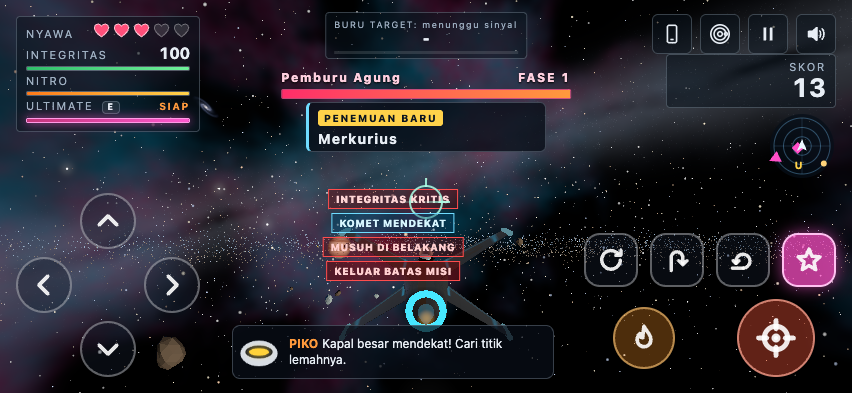
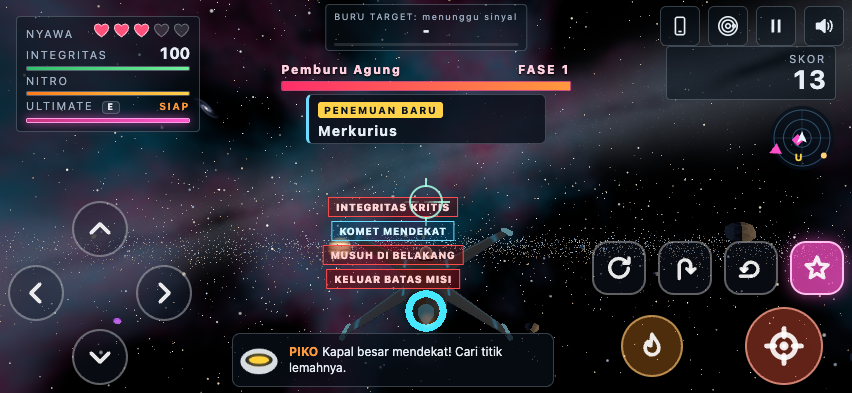
feat: H1 satuan --u dari tinggi tampak, jarak tepi max(safe area, 8px) di mode HP, override ?safearea
- Var CSS --sa-*, --ed-*, --vh1, --app-h, --u, --cu, --cs, --ca
- Semua posisi calc(Npx + env(safe-area)) diganti var --ed-* (desktop tetap 16 px)
- Modul Viewport: visualViewport, ?safearea=kiri,atas,kanan,bawah, hook debug.viewport

diff --git a/index.html b/index.html
@@ -83,6 +83,26 @@
 }
 </script>
 <style>
+  /* Jarak tepi dan satuan ukuran (H1). --sa-* adalah safe area minimal 8 px (bisa ditimpa lewat
+     ?safearea=kiri,atas,kanan,bawah); --ed-* adalah jarak tepi yang dipakai semua elemen: 16 px di
+     desktop, --sa-* di mode HP. --u adalah satuan dasar kontrol sentuh yang ikut tinggi layar tampak. */
+  :root {
+    --sa-l: max(env(safe-area-inset-left), 8px);
+    --sa-t: max(env(safe-area-inset-top), 8px);
+    --sa-r: max(env(safe-area-inset-right), 8px);
+    --sa-b: max(env(safe-area-inset-bottom), 8px);
+    --ed-l: max(env(safe-area-inset-left), 16px);
+    --ed-t: max(env(safe-area-inset-top), 16px);
+    --ed-r: max(env(safe-area-inset-right), 16px);
+    --ed-b: max(env(safe-area-inset-bottom), 16px);
+    --vh1: 1vh;
+    --app-h: 100vh;
+    --cs: 1;
+    --ca: 1;
+  }
+  @supports (height: 1dvh) { :root { --vh1: 1dvh; --app-h: 100dvh; } }
+  :root { --u: clamp(34px, calc(11 * var(--vh1)), 48px); --cu: calc(var(--u) * var(--cs)); }
+  body.mode-hp { --ed-l: var(--sa-l); --ed-t: var(--sa-t); --ed-r: var(--sa-r); --ed-b: var(--sa-b); }
   :root {
     --ui-fg: #e8eef5;
     --ui-dim: #9fb0c2;
@@ -273,7 +293,7 @@
   .note { margin: 6px 0 0; font-size: 12px; color: #ffd28a; }
   .link { font: inherit; color: var(--ui-accent); background: none; border: 0; text-decoration: underline; cursor: pointer; padding: 0; }
   .btn.danger { color: #ffb0a0; border-color: rgba(255, 120, 100, 0.5); }
-  #buffs { position: absolute; left: 16px; top: calc(146px + env(safe-area-inset-top)); display: flex; flex-direction: column; gap: 6px; }
+  #buffs { position: absolute; left: 16px; top: calc(130px + var(--ed-t)); display: flex; flex-direction: column; gap: 6px; }
   .buff { display: flex; align-items: center; gap: 8px; padding: 4px 10px; font-size: 11px; font-weight: 800; letter-spacing: 0.12em;
     background: var(--ui-panel); border: 1px solid var(--ui-line); border-radius: 4px; }
   .buff svg { width: 16px; height: 16px; fill: currentColor; }
@@ -281,7 +301,7 @@
   .buff[data-buff="overdrive"] { color: #ffc84a; border-color: rgba(255, 190, 60, 0.6); }
   .buff[data-buff="destroyer"] { color: #d58bff; border-color: rgba(200, 100, 255, 0.6); }
   #piko-panel {
-    position: absolute; left: 16px; bottom: calc(184px + env(safe-area-inset-bottom)); display: flex; align-items: center; gap: 10px;
+    position: absolute; left: 16px; bottom: calc(168px + var(--ed-b)); display: flex; align-items: center; gap: 10px;
     max-width: min(380px, 42vw); padding: 6px 12px 6px 6px; background: rgba(8, 14, 24, 0.72); border: 1px solid var(--ui-line); border-radius: 8px;
   }
   #piko-face { width: 40px; height: 40px; flex: none; }
@@ -289,12 +309,12 @@
   #piko-text b { color: var(--ui-accent); margin-right: 4px; }
   .ind.pickup { border-left-color: #5dff7a; }
   #lead { position: absolute; left: 0; top: 0; width: 14px; height: 14px; margin: -7px 0 0 -7px; border: 2px solid #ffd24a; transform-origin: center; }
-  #rear-warn { position: absolute; left: 50%; bottom: calc(56px + env(safe-area-inset-bottom)); transform: translateX(-50%);
+  #rear-warn { position: absolute; left: 50%; bottom: calc(40px + var(--ed-b)); transform: translateX(-50%);
     padding: 3px 12px; font-size: 12px; font-weight: 800; letter-spacing: 0.24em; color: #ffd0d0; border: 1px solid var(--ui-bad); background: rgba(120, 0, 0, 0.35); animation: blink 0.6s steps(2) infinite; }
-  #comet-warn { position: absolute; left: 50%; top: calc(110px + env(safe-area-inset-top)); transform: translateX(-50%);
+  #comet-warn { position: absolute; left: 50%; top: calc(94px + var(--ed-t)); transform: translateX(-50%);
     padding: 3px 12px; font-size: 12px; font-weight: 800; letter-spacing: 0.24em; color: #d8f6ff; border: 1px solid #6fdcff; background: rgba(0, 70, 110, 0.4); animation: blink 0.5s steps(2) infinite; }
   #data-panel {
-    position: absolute; right: 16px; bottom: calc(84px + env(safe-area-inset-bottom)); width: min(290px, 40vw); padding: 10px 14px;
+    position: absolute; right: 16px; bottom: calc(68px + var(--ed-b)); width: min(290px, 40vw); padding: 10px 14px;
     background: rgba(8, 14, 24, 0.8); border: 1px solid var(--ui-line); border-left: 3px solid #6fdcff; border-radius: 6px;
   }
   #data-panel h3 { margin: 0; font-size: 18px; letter-spacing: 0.08em; }
@@ -303,13 +323,13 @@
   #data-facts li + li { margin-top: 3px; }
   #data-tag { display: inline-block; margin-bottom: 4px; padding: 2px 6px; font-size: 10px; font-weight: 800; letter-spacing: 0.16em; color: #0a1420; background: #ffd24a; border-radius: 3px; }
   #data-tag.hidden { display: none; }
-  #boss-bar { position: absolute; left: 50%; top: calc(152px + env(safe-area-inset-top)); transform: translateX(-50%); width: min(560px, 70vw); }
+  #boss-bar { position: absolute; left: 50%; top: calc(136px + var(--ed-t)); transform: translateX(-50%); width: min(560px, 70vw); }
   .bb-head { display: flex; justify-content: space-between; gap: 12px; margin-bottom: 4px; font-size: 12px; font-weight: 800; letter-spacing: 0.14em; color: #ffd0e0; text-shadow: 0 1px 2px #000; }
   .bb-track { height: 10px; background: rgba(255, 255, 255, 0.12); border: 1px solid rgba(255, 80, 140, 0.7); border-radius: 2px; overflow: hidden; }
   #boss-fill { display: block; height: 100%; background: linear-gradient(90deg, #ff2d6a, #ff9a3c); transform-origin: left center; }
   #screen-levelup .card, #screen-contract .card { max-width: 760px; }
   .mission { color: #9fe8ff; margin-top: 2px; }
-  #radar { position: absolute; right: 16px; top: calc(170px + env(safe-area-inset-top)); width: 150px; height: 150px; }
+  #radar { position: absolute; right: 16px; top: calc(154px + var(--ed-t)); width: 150px; height: 150px; }
   .instr { display: flex; align-items: center; gap: 10px; margin-bottom: 6px; padding-bottom: 6px; border-bottom: 1px solid var(--ui-line); }
   #attitude { width: 56px; height: 56px; flex: none; }
   .instr-txt { display: grid; gap: 2px; min-width: 120px; }
@@ -372,7 +392,7 @@
   .acard .acls { margin: 2px 0 6px; font-size: 11px; color: var(--ui-dim); text-transform: uppercase; letter-spacing: 0.1em; }
   .acard ul { margin: 0; padding-left: 16px; font-size: 12px; line-height: 1.4; }
   .acard.locked { opacity: 0.45; }
-  #maneuvers { position: absolute; left: 50%; bottom: calc(14px + env(safe-area-inset-bottom)); transform: translateX(-50%); display: flex; gap: 8px; }
+  #maneuvers { position: absolute; left: 50%; bottom: calc(-2px + var(--ed-b)); transform: translateX(-50%); display: flex; gap: 8px; }
   .man {
     position: relative; overflow: hidden; display: flex; align-items: center; gap: 6px; padding: 5px 10px;
     background: var(--ui-panel); border: 1px solid var(--ui-line); border-radius: 4px; font-size: 11px; letter-spacing: 0.1em;
@@ -405,11 +425,11 @@
   #touch .tbtn svg { width: 30px; height: 30px; fill: none; stroke: currentColor; stroke-width: 3; stroke-linecap: round; stroke-linejoin: round; }
   #touch .tbtn.on { background: rgba(255, 154, 60, 0.55); border-color: #ffd08a; transform: scale(0.94); }
   /* Tata letak grid: tombol tidak bisa bertumpuk, jarak 12 px, area sentuh minimal 56 px */
-  .dpad { position: absolute; left: calc(16px + env(safe-area-inset-left)); bottom: calc(16px + env(safe-area-inset-bottom));
+  .dpad { position: absolute; left: var(--ed-l); bottom: var(--ed-b);
     display: grid; grid-template-columns: repeat(3, 60px); grid-template-rows: repeat(3, 60px); gap: 8px; }
   #touch .dpad .tbtn, #touch .actions .tbtn { position: relative; inset: auto; width: 100%; height: 100%; }
   .t-up { grid-area: 1 / 2; } .t-left { grid-area: 2 / 1; } .t-right { grid-area: 2 / 3; } .t-down { grid-area: 3 / 2; }
-  .actions { position: absolute; right: calc(16px + env(safe-area-inset-right)); bottom: calc(16px + env(safe-area-inset-bottom));
+  .actions { position: absolute; right: var(--ed-r); bottom: var(--ed-b);
     display: grid; grid-template-columns: repeat(4, 56px); grid-template-rows: 56px 84px; gap: 12px; align-items: center; justify-items: center; }
   .t-roll { grid-area: 1 / 1; } .t-imm { grid-area: 1 / 2; } .t-loop { grid-area: 1 / 3; } .t-ult { grid-area: 1 / 4; }
   #touch .actions .t-nitro { grid-area: 2 / 1 / 3 / 3; width: 68px; height: 68px; }
@@ -430,35 +450,35 @@
   body.mode-hp .hud-block.tl .lv-row, body.mode-hp #xp-bar { display: none; }
   body.mode-hp .hud-block.tl .row { margin-top: 1px; }
   body.mode-hp .hud-block.tl .bar { height: 5px; margin: 2px 0 3px; }
-  body.mode-hp .hud-block.tc { max-width: min(240px, 30vw); padding: 4px 8px; top: calc(12px + env(safe-area-inset-top)) !important; }
+  body.mode-hp .hud-block.tc { max-width: min(240px, 30vw); padding: 4px 8px; top: calc(-4px + var(--ed-t)) !important; }
   body.mode-hp .hud-block.tc > .label:not(.mission) { display: none; }
   body.mode-hp .hud-block.tc .big { font-size: 15px; }
   body.mode-hp .mission { white-space: nowrap; overflow: hidden; text-overflow: ellipsis; font-size: 9px; }
-  body.mode-hp .hud-block.tr { top: calc(54px + env(safe-area-inset-top)) !important; }
+  body.mode-hp .hud-block.tr { top: calc(38px + var(--ed-t)) !important; }
   body.mode-hp .hud-block.tr .label:not(:first-child) { display: none; }
-  body.mode-hp #radar { width: 72px; height: 72px; top: calc(118px + env(safe-area-inset-top)); }
-  body.mode-hp #boss-bar { top: calc(70px + env(safe-area-inset-top)); width: min(320px, 34vw); }
-  body.mode-hp #data-panel { right: auto; left: 50%; transform: translateX(-50%); top: calc(102px + env(safe-area-inset-top)); bottom: auto; width: min(240px, 30vw); padding: 4px 9px; }
+  body.mode-hp #radar { width: 72px; height: 72px; top: calc(102px + var(--ed-t)); }
+  body.mode-hp #boss-bar { top: calc(54px + var(--ed-t)); width: min(320px, 34vw); }
+  body.mode-hp #data-panel { right: auto; left: 50%; transform: translateX(-50%); top: calc(86px + var(--ed-t)); bottom: auto; width: min(240px, 30vw); padding: 4px 9px; }
   body.mode-hp #data-panel h3 { font-size: 14px; }
   body.mode-hp #data-facts, body.mode-hp #data-panel .dcls { display: none; }
-  body.mode-hp #piko-panel { left: calc(50% - 33px); transform: translateX(-50%); top: auto; bottom: calc(14px + env(safe-area-inset-bottom)); width: max-content; max-width: max(150px, calc(100vw - 530px)); }
+  body.mode-hp #piko-panel { left: calc(50% - 33px); transform: translateX(-50%); top: auto; bottom: calc(-2px + var(--ed-b)); width: max-content; max-width: max(150px, calc(100vw - 530px)); }
   body.mode-hp #piko-text { font-size: 12px; }
-  body.mode-hp #buffs { top: auto !important; left: 50%; transform: translateX(-50%); bottom: calc(96px + env(safe-area-inset-bottom)); flex-direction: row; }
+  body.mode-hp #buffs { top: auto !important; left: 50%; transform: translateX(-50%); bottom: calc(80px + var(--ed-b)); flex-direction: row; }
   /* Peringatan mode HP: bertumpuk di celah tengah bawah di antara dua kelompok tombol */
   /* Celah tengah bawah tidak simetris (kelompok kanan lebih lebar), jadi pusatnya digeser 33 px ke kiri */
   body.mode-hp #warning, body.mode-hp #rear-warn, body.mode-hp #comet-warn, body.mode-hp #critical {
     top: auto; left: calc(50% - 33px); padding: 3px 7px; font-size: 10px; letter-spacing: 0.06em; white-space: nowrap; max-width: max(140px, calc(100vw - 520px)); overflow: hidden; text-overflow: ellipsis; }
-  body.mode-hp #warning { bottom: calc(112px + env(safe-area-inset-bottom)); border-width: 1px; }
-  body.mode-hp #rear-warn { bottom: calc(136px + env(safe-area-inset-bottom)); }
-  body.mode-hp #comet-warn { bottom: calc(160px + env(safe-area-inset-bottom)); }
-  body.mode-hp #critical { bottom: calc(184px + env(safe-area-inset-bottom)); }
+  body.mode-hp #warning { bottom: calc(96px + var(--ed-b)); border-width: 1px; }
+  body.mode-hp #rear-warn { bottom: calc(120px + var(--ed-b)); }
+  body.mode-hp #comet-warn { bottom: calc(144px + var(--ed-b)); }
+  body.mode-hp #critical { bottom: calc(168px + var(--ed-b)); }
   .tool .ic-hp { display: none; }
   body.mode-hp .tool .ic-hp { display: block; }
   body.mode-hp .tool .ic-kb { display: none; }
   .tool svg rect { fill: none !important; }
   #rotate-hint { z-index: 60; }
   #touch-prompt {
-    position: fixed; z-index: 45; right: calc(16px + env(safe-area-inset-right)); bottom: calc(16px + env(safe-area-inset-bottom)); max-width: 360px;
+    position: fixed; z-index: 45; right: var(--ed-r); bottom: var(--ed-b); max-width: 360px;
     display: flex; align-items: center; gap: 10px; flex-wrap: wrap; justify-content: center;
     padding: 10px 14px; background: rgba(10, 18, 28, 0.9); border: 1px solid var(--ui-line); border-radius: 8px; font-size: 14px;
   }
@@ -483,7 +503,7 @@
     .actions { grid-template-columns: repeat(4, 54px); grid-template-rows: 54px 78px; }
     #touch .actions .t-fire { width: 78px; height: 78px; }
     #touch .actions .t-nitro { width: 62px; height: 62px; }
-    body.mode-hp #radar { width: 68px; height: 68px; top: calc(112px + env(safe-area-inset-top)); }
+    body.mode-hp #radar { width: 68px; height: 68px; top: calc(96px + var(--ed-t)); }
     .card { padding: 16px 18px; gap: 10px; }
     .screen h2 { font-size: 30px; }
   }
@@ -499,7 +519,7 @@
   /* Toolbar pojok kanan atas */
   #toolbar {
     position: fixed; z-index: 40; display: flex; gap: 8px;
-    top: calc(14px + env(safe-area-inset-top)); right: calc(16px + env(safe-area-inset-right));
+    top: calc(-2px + var(--ed-t)); right: var(--ed-r);
   }
   .tool {
     display: flex; align-items: center; justify-content: center; gap: 4px; min-width: 40px; height: 40px; padding: 0 8px;
@@ -553,8 +573,8 @@
   #hearts svg path { fill: rgba(255, 255, 255, 0.12); stroke: rgba(255, 255, 255, 0.35); stroke-width: 1.5; }
   #hearts svg.on path { fill: #ff4f7a; stroke: #ffc0d0; }
   #hearts svg.lost { animation: pulse 0.25s ease-in-out 4 alternate; }
-  .hud-block.tr { top: calc(64px + env(safe-area-inset-top)) !important; }
-  #buffs { top: calc(176px + env(safe-area-inset-top)) !important; }
+  .hud-block.tr { top: calc(48px + var(--ed-t)) !important; }
+  #buffs { top: calc(160px + var(--ed-t)) !important; }
   #ult-fill { background: linear-gradient(90deg, #c4357a, #ff5ad0); transform: scaleX(0); }
   #ult-bar.ready { box-shadow: 0 0 10px rgba(255, 90, 208, 0.8); border-color: #ff9ae6; }
   kbd.mini { min-width: 0; padding: 1px 4px; font-size: 9px; margin-left: 4px; border-bottom-width: 1px; }
@@ -11329,6 +11349,59 @@ function toggleMute() {
   Settings.set('muted', !Game.muted);
 }
 
+/* =====================================================================
+   VIEWPORT (H1) - tinggi tampak dari visualViewport (bar browser bisa muncul dan hilang),
+   satuan --u ikut tinggi tampak, safe area bisa ditimpa lewat ?safearea=kiri,atas,kanan,bawah
+   agar tata letak HP berponi bisa diuji tanpa perangkat sungguhan.
+   ===================================================================== */
+const Viewport = {
+  root: document.documentElement,
+  override: null,   // [kiri, atas, kanan, bawah] dalam px dari query string
+  probe: null,
+  w: window.innerWidth, h: window.innerHeight,
+  init() {
+    try {
+      const q = new URLSearchParams(location.search).get('safearea');
+      if (q) {
+        const v = q.split(',').map(Number);
+        if (v.length === 4 ? v.every((n) => Number.isFinite(n) ? n >= 0 : false) : false) {
+          this.override = v;
+          ['l', 't', 'r', 'b'].forEach((k, i) => this.root.style.setProperty('--sa-' + k, 'max(' + v[i] + 'px, 8px)'));
+          ['l', 't', 'r', 'b'].forEach((k, i) => this.root.style.setProperty('--ed-' + k, 'max(' + v[i] + 'px, 16px)'));
+        }
+      }
+    } catch (err) { /* abaikan, pakai env() */ }
+    const vv = window.visualViewport;
+    if (vv) vv.addEventListener('resize', () => this.update());
+    window.addEventListener('resize', () => this.update());
+    window.addEventListener('orientationchange', () => setTimeout(() => this.update(), 120));
+    this.update();
+  },
+  // Ukuran tampak: visualViewport bila tidak sedang di-zoom, selain itu ukuran jendela
+  update() {
+    const vv = window.visualViewport;
+    const useVv = vv ? Math.abs(vv.scale - 1) < 0.01 : false;
+    this.w = Math.round(useVv ? vv.width : window.innerWidth);
+    this.h = Math.round(useVv ? vv.height : window.innerHeight);
+    this.root.style.setProperty('--vh1', (this.h / 100).toFixed(2) + 'px');
+    this.root.style.setProperty('--app-h', this.h + 'px');
+    Events.emit('viewport', this.w, this.h);
+  },
+  // Nilai px dari ekspresi CSS (misalnya var(--sa-l)) lewat elemen probe tersembunyi
+  px(expr) {
+    if (!this.probe) {
+      this.probe = document.createElement('div');
+      this.probe.style.cssText = 'position:fixed;left:0;top:0;height:0;visibility:hidden;pointer-events:none';
+      document.body.appendChild(this.probe);
+    }
+    this.probe.style.width = expr;
+    return parseFloat(getComputedStyle(this.probe).width) || 0;
+  },
+  // Inset tepi efektif yang sedang berlaku (mode HP: max(safe area, 8 px))
+  edges() { return { l: this.px('var(--ed-l)'), t: this.px('var(--ed-t)'), r: this.px('var(--ed-r)'), b: this.px('var(--ed-b)') }; },
+};
+Viewport.init();
+
 // Sumber sentuh (mode HP): tiap pointerId dilacak terpisah sehingga multi-touch bekerja,
 // dan jari yang digeser di atas D-pad berpindah aksi mengikuti tombol di bawahnya
 const Touch = {
@@ -11987,6 +12060,12 @@ window.__game = {
     pickCard(id) { return Levels.choose(id); },
     companions() { return Companions.list.map((c) => ({ active: c.active, visible: c.group.visible, inScene: !!c.group.parent, d: round2(c.pos.distanceTo(Player.pos)) })); },
     // Periksa tumpang tindih tata letak HUD dan tombol sentuh (kotak batas elemen yang tampil)
+    // Ukuran tampak, satuan --u, skala kontrol, dan jarak tepi efektif (H1)
+    viewport() {
+      const px = (e) => round2(Viewport.px(e));
+      return { w: Viewport.w, h: Viewport.h, u: px('var(--u)'), cu: px('var(--cu)'), cs: Number(getComputedStyle(document.documentElement).getPropertyValue('--cs')) || 1,
+        sa: { l: px('var(--sa-l)'), t: px('var(--sa-t)'), r: px('var(--sa-r)'), b: px('var(--sa-b)') }, ed: Viewport.edges(), override: Viewport.override };
+    },
     layoutOverlaps() {
       const sel = ['#touch .tbtn', '.hud-block', '#radar', '#piko-panel', '#data-panel', '#boss-bar', '#toolbar .tool', '#maneuvers', '#buffs .buff', '#warning', '#rear-warn', '#comet-warn', '#critical'];
       const items = [];

diff --git a/docs/PROGRESS.md b/docs/PROGRESS.md
@@ -98,7 +98,7 @@ desktop, dan semua hook debug tidak berubah. Matriks uji: 568x320, 667x375, 740x
 layar, tiap cluster maksimal 30 persen tinggi dan 26 persen lebar, zona tengah (x 30 sampai 70 persen,
 y 20 sampai 80 persen) bebas UI.
 
-- H1 (BELUM) Audit CSS mode HP, var --u (clamp(34px, 11vh, 48px), dari visualViewport), --sa-l/t/r/b = max(safe-area, 8px), override ?safearea=kiri,atas,kanan,bawah, hapus penjumlahan 16px dengan safe-area.
+- H1 (SELESAI) Audit CSS mode HP, var --u (clamp(34px, 11vh, 48px), dari visualViewport), --sa-l/t/r/b = max(safe-area, 8px), override ?safearea=kiri,atas,kanan,bawah, hapus penjumlahan 16px dengan safe-area.
 - H2 (BELUM) Joystick analog melayang (separuh kiri, deadzone 12 persen, kurva halus, lewat Controls), cluster aksi baru (tembak pojok kanan bawah, nitro di atasnya, 2x2 manuver dan ultimate), hit slop 44 px, opsi Ukuran kontrol, Transparansi, Mode kidal, Gaya kontrol kiri (Joystick atau Tombol arah).
 - H3 (BELUM) HUD kompak (kiri atas 150x48, baris misi tengah atas, kanan atas hanya Jeda dan Suara), radar 48 sampai 56 px dengan ikon peta, teks minimum 11 px.
 - H4 (BELUM) Pusat notifikasi tunggal dengan antrean prioritas (Piko, area, pickup, level, kontrak), indikator tepi untuk peringatan kritis, Bantuan robot: Penuh, Ringkas, Hanya ikon, Mati.
